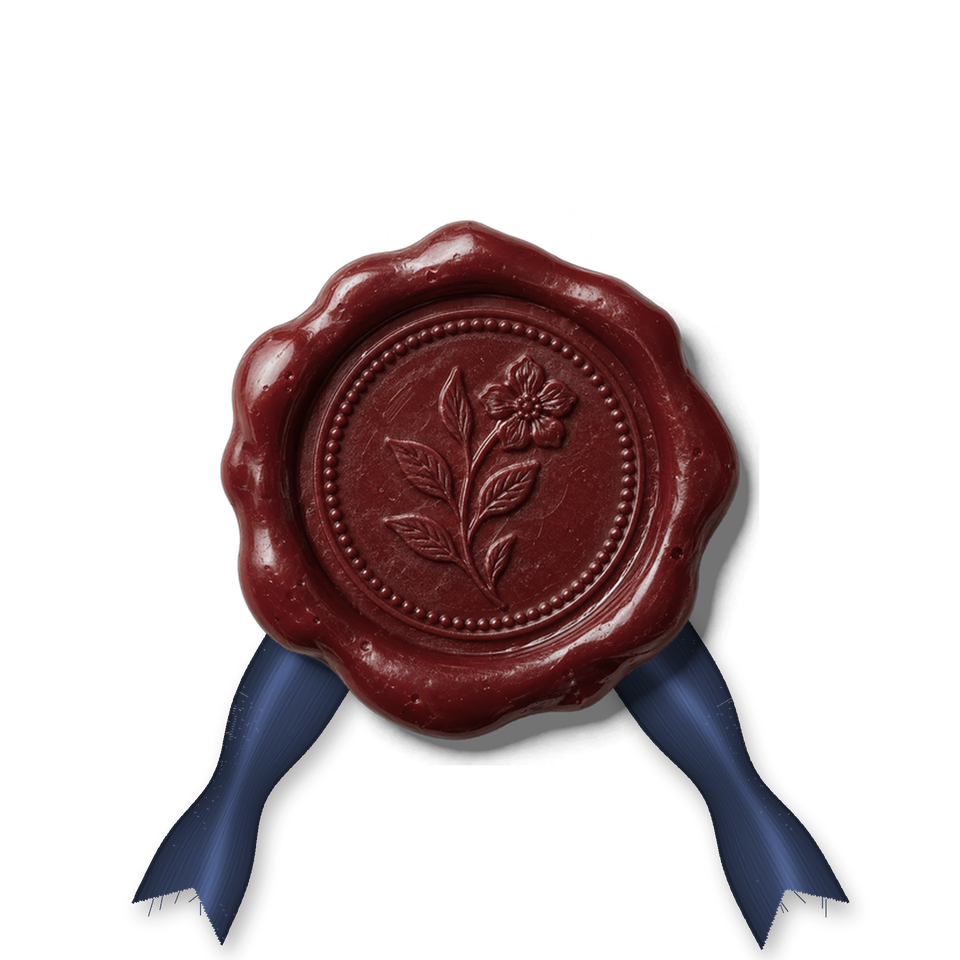
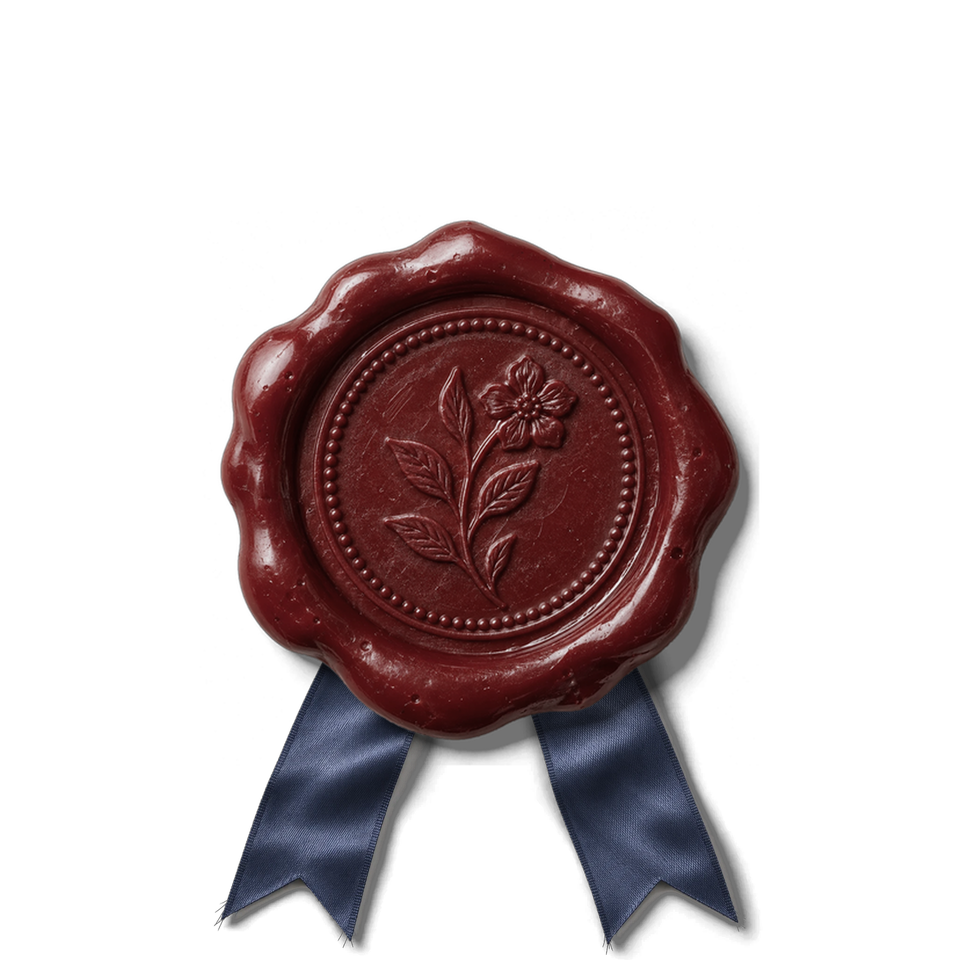
Lock seal: the photographed silk ribbon
art/seal/ribbon.webp, lifted off its grey (by darkness and its blue, so no
pale fringe on the night sheet), its soft shadow kept, laid under the
seal; the drawn ribbon stays as the fallback.

Claude-Session: https://claude.ai/code/session_01Gt7tu4gfoEos1TAjQ1a4QF

Changed region(s): [[0.5312, 0.6562, 0.9062, 1.0], [0.125, 0.6562, 0.4688, 1.0]]

diff --git a/tools/make_sealed.py b/tools/make_sealed.py
@@ -10,7 +10,9 @@ soft shadow on the paper. The seal is laid over them, and the whole is one
 picture (assets/seal/sealed.png), so when the seal is broken (WaxSeal.qml)
 every fragment carries its own piece of wax and ribbon together.
 
-Drawn on a 240 x 240 unit square (the seal's centre at 120, 120; its wax
+A ribbon photographed on plain grey, art/seal/ribbon.webp, is used when it
+is there (lifted off its background, its shadow kept); the drawn one is the
+fallback. Drawn on a 240 x 240 unit square (the seal's centre at 120, 120; its wax
 58 units across the radius), at 4 px a unit. Requires: numpy, pillow.
 """
 import math
@@ -118,10 +120,58 @@ def draw_ribbon():
     return canvas
 
 
+ART = os.path.join(HERE, "..", "art", "seal", "ribbon.webp")
+
+
+def cut_ribbon(path):
+    """The ribbon from a photograph on plain grey (art/seal/ribbon.webp):
+    lifted off its background, its soft shadow kept, laid with its top
+    under the seal and its tails down to the foot of the picture."""
+    src = np.asarray(Image.open(path).convert("RGB")).astype(np.float32)
+    h, w, _ = src.shape
+    edge = np.concatenate([src[:40, :40].reshape(-1, 3), src[:40, -40:].reshape(-1, 3), src[-30:, w // 2 - 50:w // 2 + 50].reshape(-1, 3)])
+    bg = np.median(edge, axis=0)
+    lum = src @ np.array([0.299, 0.587, 0.114], np.float32)
+    bgl = float(bg @ np.array([0.299, 0.587, 0.114], np.float32))
+    # the silk: much darker than the paper, or blue where its sheen is light
+    # (the paper and the shadow on it are grey, never blue)
+    blue = (src[..., 2] - src[..., 0]) - (bg[2] - bg[0])
+    a = np.maximum(np.clip((bgl - lum - 48) / 40, 0, 1), np.clip((blue - 10) / 22, 0, 1))
+    a = np.asarray(Image.fromarray((a * 255).astype(np.uint8)).filter(ImageFilter.MinFilter(3)).filter(ImageFilter.GaussianBlur(0.6)), np.float32) / 255
+    sh = np.clip((bgl - lum) / bgl * 2.4 - 0.03, 0, 0.55) * (1 - a)   # its shadow on the paper
+    col = (src - (1 - a[..., None]) * bg) / np.maximum(a[..., None], 0.05)
+    col = np.clip(col, 0, 255)
+    out_a = a + (1 - a) * sh
+    rgb = (a[..., None] * col) / np.maximum(out_a[..., None], 1e-3)   # (the shadow is black)
+    rgba = np.dstack([np.clip(rgb, 0, 255), np.clip(out_a * 255, 0, 255)]).astype(np.uint8)
+    img = Image.fromarray(rgba, "RGBA")
+    ys, xs = np.where(a > 0.5)
+    top, bottom = 0, int(ys.max())
+    left, right = int(xs.min()), int(xs.max())
+    # its top hidden under the wax (y 95), the cut ends near the foot (y 236)
+    k = (236 - 95) / max(1, bottom - top) * PX
+    img = img.resize((max(1, int(w * k)), max(1, int(h * k))), Image.LANCZOS)
+    W = SIZE * PX
+    canvas = Image.new("RGBA", (W, W), (0, 0, 0, 0))
+    cx = (left + right) / 2 * k
+    canvas.alpha_composite(img, (int(120 * PX - cx), int(95 * PX - top * k)))
+    return canvas
+
+
 def main():
     seal = Image.open(os.path.join(ASSETS, "seal.png")).convert("RGBA")
-    ribbon = draw_ribbon()
     W = SIZE * PX
+    if os.path.exists(ART):
+        out = Image.new("RGBA", (W, W), (0, 0, 0, 0))
+        out.alpha_composite(cut_ribbon(ART))
+        S = int(58 * 2.6 * PX)
+        out.alpha_composite(seal.resize((S, S), Image.LANCZOS), ((W - S) // 2, (W - S) // 2))
+        out = out.resize((SIZE * U, SIZE * U), Image.LANCZOS)
+        path = os.path.join(ASSETS, "sealed.png")
+        out.save(path, optimize=True)
+        print("sealed (ribbon from art/seal/ribbon.webp):", os.path.normpath(path), out.size)
+        return
+    ribbon = draw_ribbon()
     # the ribbon's shadow on the paper
     shadow = Image.new("RGBA", (W, W), (0, 0, 0, 0))
     a = ribbon.split()[3].filter(ImageFilter.GaussianBlur(2.2 * PX)).point(lambda v: int(v * 0.32))

diff --git a/art/seal/README.md b/art/seal/README.md
@@ -22,3 +22,7 @@ so leave it out of the picture.
 > from the top left, a soft shadow on the lower right. Realistic, high
 > detail. No text, no letters, no ribbon, no string, no paper, no other
 > objects.
+
+ribbon.webp: the silk ribbon under the lock-screen seal, photographed on plain
+grey; tools/make_sealed.py lifts it off and lays it under the seal
+(dotfiles/.config/quickshell/assets/seal/sealed.png).
